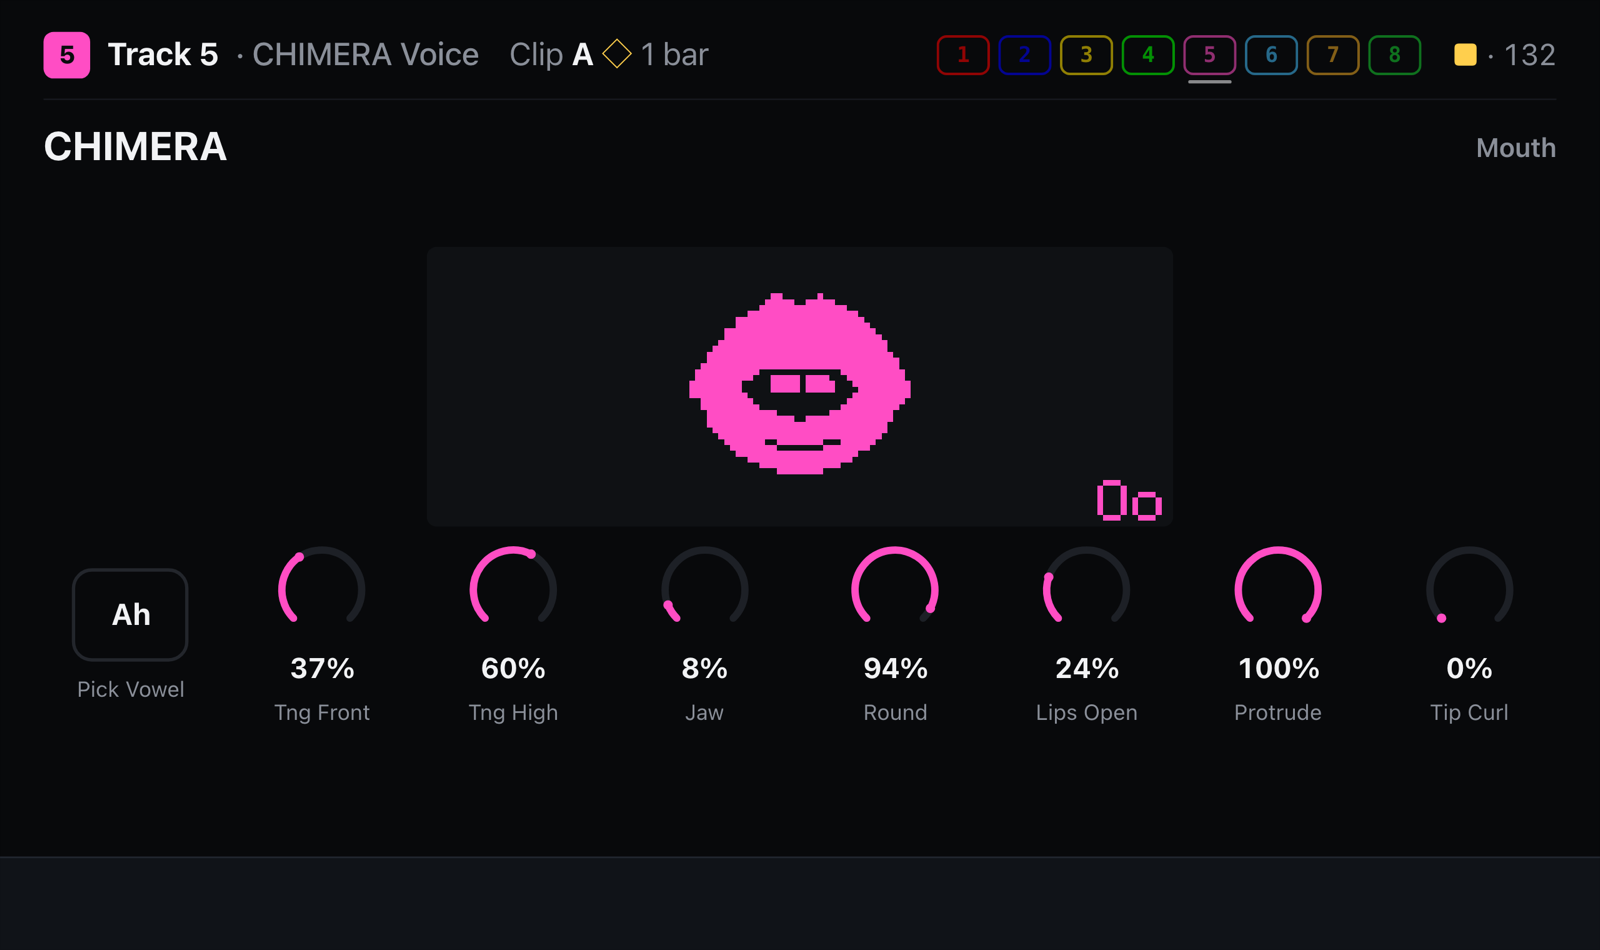
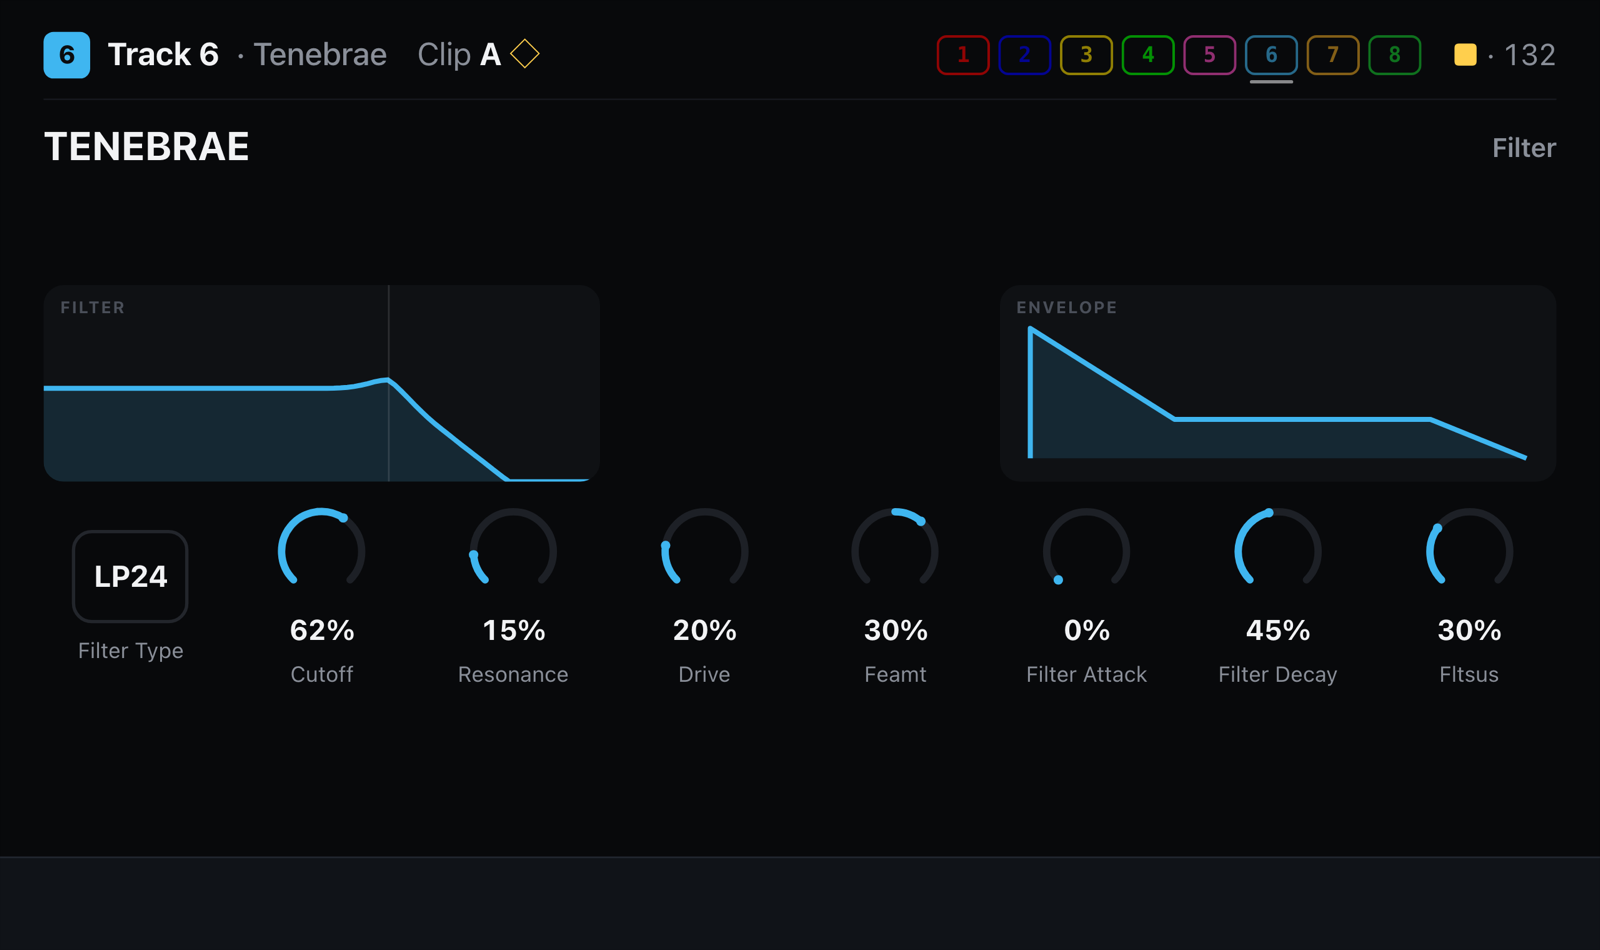
docs: the instrument shot is Tenebrae's Filter page
Its filter curve and envelope are drawn over the knobs.

diff --git a/README.md b/README.md
@@ -118,7 +118,7 @@ or samples of its own on an Audio or Slicer track.
   <sub>The browser editor's sequencer, live in both directions with the Move</sub>
 </p>
 
-<table><tr><td align="center" width="50%"><img src="docs/readme/web-screen-notefx.png" width="380" alt="The Screen view on the NOTE FX bank: the clip's notes above the bank's knobs"><br><sub>The Screen view: the clip's notes over the bank you're on</sub></td><td align="center" width="50%"><img src="docs/readme/web-screen-instrument.png" width="380" alt="The Screen view in an instrument's editor: CHIMERA's Mouth page, its drawn mouth above the knobs"><br><sub>An instrument's editor, with the module's own picture</sub></td></tr></table>
+<table><tr><td align="center" width="50%"><img src="docs/readme/web-screen-notefx.png" width="380" alt="The Screen view on the NOTE FX bank: the clip's notes above the bank's knobs"><br><sub>The Screen view: the clip's notes over the bank you're on</sub></td><td align="center" width="50%"><img src="docs/readme/web-screen-instrument.png" width="380" alt="The Screen view in an instrument's editor: Tenebrae's Filter page, its filter curve and envelope drawn over the knobs"><br><sub>An instrument's editor: the filter and its envelope, drawn</sub></td></tr></table>
 
 ---
 

diff --git a/davebox/CHANGELOG.md b/davebox/CHANGELOG.md
@@ -19,7 +19,7 @@ the section into a versioned heading at release time.
 
   ![The Screen view on the NOTE FX bank: the clip's notes above the bank's knobs](https://raw.githubusercontent.com/legsmechanical/dbxhost/main/docs/readme/web-screen-notefx.png)
 
-  ![The Screen view in an instrument's editor: CHIMERA's Mouth page, its drawn mouth above the knobs](https://raw.githubusercontent.com/legsmechanical/dbxhost/main/docs/readme/web-screen-instrument.png)
+  ![The Screen view in an instrument's editor: Tenebrae's Filter page, its filter curve and envelope drawn over the knobs](https://raw.githubusercontent.com/legsmechanical/dbxhost/main/docs/readme/web-screen-instrument.png)
 - **A channel strip on every track**: a one-knob compressor and a 3-band EQ with a
   sweepable mid, like a mixing desk's channel. **Turn the jog on MIX** for MIX 2: Low,
   Mid, Freq, High and Comp. In Session View, the map's second column has **EQ** (the jog
